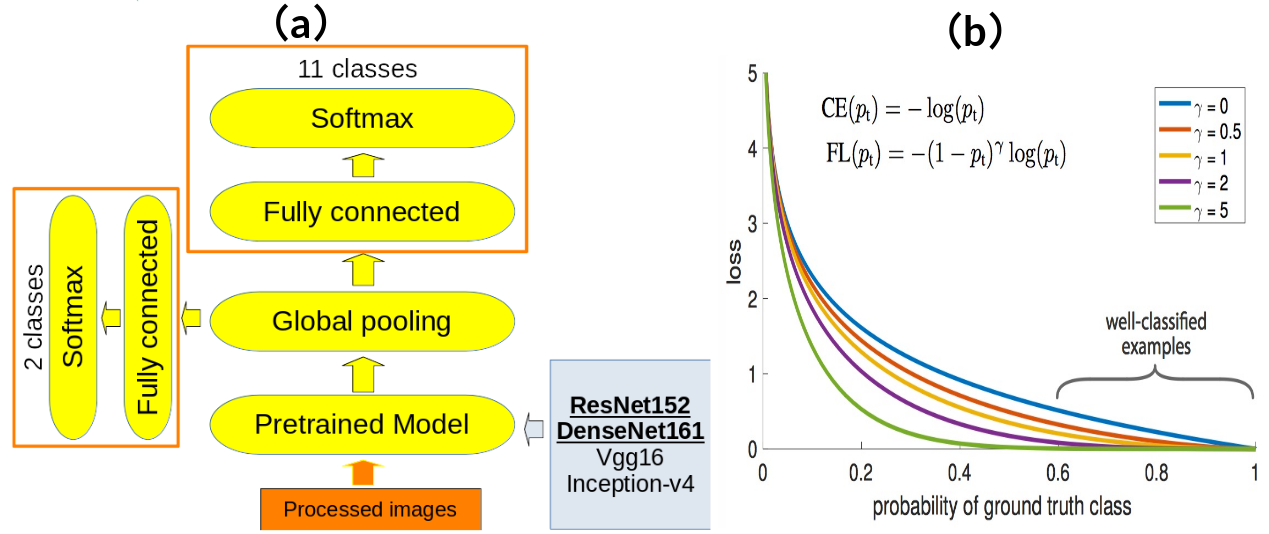
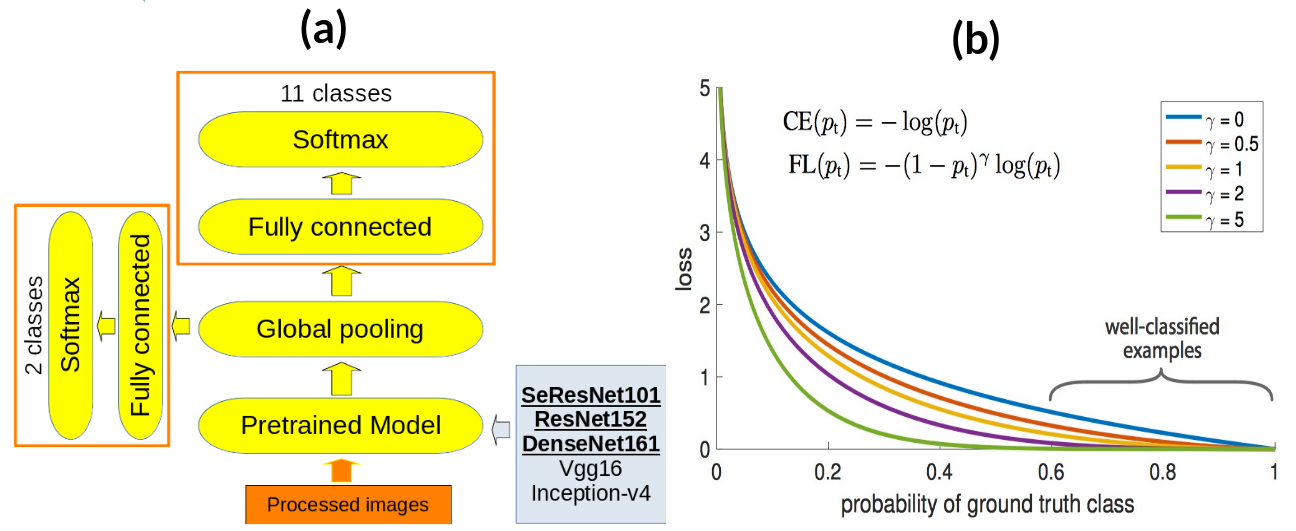
Add new version with SeResNet101 and multi-scale window

diff --git a/README.md b/README.md
@@ -15,27 +15,34 @@ We collect more than 2000 fabric images as our dataset. There are two major diff
 <center>Fig 2. the area distribution of fabric defects. About 82% of defects have area less than 1%, while the area of about 17% of defects is between 1% and 10%. And the rest 1% of defects have area greater than 10%.</center>
 
 ## Data process
+
+### Multi-scale window
+Since the original images have high resolution (2520 * 1960) and the shape of defects varies across different defects,in which the area of most defects is very small, we decided to use the multi-scale window sweeping across the images instead of the entire image as our training dataset, which also helps to increase the amount of dastaset. We select windows with three different kinds of windows (i.e. 640*640, 800*800, 960*960) in order to capture the different sizes of defects (Fig. 3). Each original image selects totally 24 (6*4) windows for every size of window, in which we only keep the windows containing defects with iou greater than 0.5 as our training dastaset.
+
+![multi_windows](https://github.com/XStargate/insight_project/blob/master/pics/multi_windows.png)
+<center>Fig 3. the multi-scale windows of imamges</center>
+
 ### Histogram equalization
 Histogram equalization is a computer image processing technique used to improve contrast in images, which is accomplished by effectively spreading out the most frequent intensity values, i.e. streatching out the intensity range of the image.  Histogram equalization is one of the best methods for image enhancement without loss of any information. Our most images have very skewed distribution on grayness and/or brightness, resulting in defects merged with normal background and hard to be identified. Therefore, the histogram equalization can significantly increase the contrast of most defect images (Fig. 3), which contributes a lot to improve the classification accuracy of our model.
 
 ![hist_equal](https://github.com/XStargate/insight_project/blob/master/pics/hist_equal.png)
-<center>Fig 3. (a) the original images of defects. (b) the images of defects processed by the histogram equalization algorithm.</center>
+<center>Fig 4. (a) the original images of defects. (b) the images of defects processed by the histogram equalization algorithm.</center>
 
 ### Data augmentation
-Since the number of defective fabric images are very limited compared to normal fabrics. We implement a few data augmentation methods that are common and standard in the computer vision field to increase the training dataset of defective fabrics, including flip, rotation, shift, crop, and slightly changing on grayness, brightness, etc. Besides the augmentation on training dataset, we also augment the testing dataset by individual horizontal flip, individual vertical flip, and both horizontal and vertical flip simutaneously. Hence, each test image will become four images (including the original one) to be predicted/classified by our model, and the final prediction will be the average value from the predicting results of all four images. The augmentation on test dataset can be regarded as a kind of model fusion, which turns out to increase the accuracy of our model on test dataset.
+Since the number of defective fabric images are very limited compared to normal fabrics. We implement a few data augmentation methods that are common and standard in the computer vision field to increase the training dataset of defective fabrics, including horizontal/vertical flip and rotation at specific angle. Besides the augmentation on training dataset, we also augment the testing dataset by individual horizontal flip, individual vertical flip, and both horizontal and vertical flip simutaneously. Hence, each test image will become four images (including the original one) to be predicted/classified by our model, and the final prediction will be the average value from the predicting results of all four images. The augmentation on test dataset can be regarded as a kind of model fusion, which turns out to increase the accuracy of our model on test dataset.
 
 ## Framework / network
 
-We implement the transfer learning based on the pretrained ResNet152 and/or DenseNet161 models, and some other pretrained models like vgg16 and Inception-v4 can be also tried in our network. The Fig. 4(a) shows the structure of our network, in which the processed images are input into the pretrained model and then extract feature of each channel by a global pooling layer. The key point in this network is to split the network into two branches, of which one is to do binary classification between normal and defective fabrics, and the other one is to classify 10 different kinds of fabrics from normal fabrics. The reason we have an additional branch of binary classification is to reduce the impact of dataset imbalance because the accumulative dataset from all defects has a comparable size with normal fabric dataset. Our experimental results indicate the binary classification is helpful to increase the accuracy of eventual classification on 11 classes.
+In our original approach, we implement the transfer learning based on the pretrained ResNet152 and/or DenseNet161 models, and some other pretrained models like vgg16 and Inception-v4 can be also tried in our network. Then we select SeResNet101 with attention mechanism added into it, which is more helpful to capture the defects especially some small defects. The Fig. 5(a) shows the structure of our network, in which the processed images are input into the pretrained model and then extract feature of each channel by a global pooling layer. The key point in this network is to split the network into two branches, of which one is to do binary classification between normal and defective fabrics, and the other one is to classify 10 different kinds of fabrics from normal fabrics. The reason we have an additional branch of binary classification is to reduce the impact of dataset imbalance because the accumulative dataset from all defects has a comparable size with normal fabric dataset. Our experimental results indicate the binary classification is helpful to increase the accuracy of eventual classification on 11 classes.
 
-We select the focal loss function as our loss function (Fig. 4(b)), which is defined in the following equation:
+We select the focal loss function as our loss function (Fig. 5(b)), which is defined in the following equation:
 
 ![focal_loss](https://github.com/XStargate/insight_project/blob/master/pics/focal_loss.png)
 
 where ![p_t](https://github.com/XStargate/insight_project/blob/master/pics/p_t.png) is the classification probability; ![alpha_t](https://github.com/XStargate/insight_project/blob/master/pics/alpha_t.png) is the weights on different classes; ![gamma](https://github.com/XStargate/insight_project/blob/master/pics/gamma.png) is focusing parameter (default is 2) and ![p_t_gamma](https://github.com/XStargate/insight_project/blob/master/pics/p_t_gamma.png) is called modulating factor, which is to decrease the weights on classes that are easily classified, while increase the weight on difficult classifications. There are two major advantages of focal loss function compared to the cross entropy loss function. The first advantage is that it can mitigate the influence of dataset imbalance by adding more weights on small dataset manually, and the other advantage is it can automatically increase the weights on classes that hard to be classified correctly on the fly.
 
 ![network_loss](https://github.com/XStargate/insight_project/blob/master/pics/network_loss.png)
-<center>Fig 4. (a) the network structure used in this project and the pretrained models we use are ResNet152 and DenseNet161. (b) the probability of ground truth of Focal loss function, which is the loss funtion used in this project (Tsung-Yi Lin et al. 2018).</center>
+<center>Fig 5. (a) the network structure used in this project and the pretrained models we use are SeResNet101, ResNet152 and DenseNet161. (b) the probability of ground truth of Focal loss function, which is the loss funtion used in this project (Tsung-Yi Lin et al. 2018).</center>
 
 Since our network is splitted to two branches on both 2 classes and 11 classes, the loss is defined in the following equation:
 
@@ -44,12 +51,12 @@ Since our network is splitted to two branches on both 2 classes and 11 classes, 
 where 70% of total loss is from the loss on 11 classifications and the rest 30% is from the loss on 2 classifications. We try a few different weights on those two types of classifications and turns out 70%/30% can achieve the best accuracy.
 
 ## Results and future works
-In this project, we build two models based on pretrained ResNet152 and DenseNet161 individually (Fig. 5), and both models can obtain the accuracy about 78% on the test data. Then we make a model fusion by combining both models, achieving more than 79% accuracy in the end. The accuracy is higher than common manual inspection accuracy between 50% and 65%, so we believe the model can help fabric manufacturing industry increase speed and accuracy on fabric defect detection. 
+In this project, we obtain the accuracy about 86% on the test data by using SeResNet101 and multi-scale windows (Fig. 6), while the accuracy using ResNet152, DenseNet161 and entire image is only about 79%. The accuracy is higher than common manual inspection accuracy between 50% and 65%, so we believe the model can help fabric manufacturing industry increase speed and accuracy on fabric defect detection. 
 
 ![accuracy](https://github.com/XStargate/insight_project/blob/master/pics/accuracy.png)
-<center>Fig 5. the accuracy of model based on ResNet152 for each epoch, where the blue lines are accuracy of training dataset and red lines are accuracy of testing dataset.</center>
+<center>Fig 6. the accuracy of model based on SeResNet101 for each epoch, where the blue lines are accuracy of training dataset and red lines are accuracy of testing dataset.</center>
 
-For this project, there are still a lot of other techniques worth exploring to increase the accuracy continuously in the future. For example, we can also try some other pretrained models, like vgg16, to do more model fusion. And we can also use some slided or cut windows to increase the size of dataset. Moreover, we can try to apply some object detection techniques on this project, like fast-RCNN, spatial pyramid pooling, Yolo network, etc.
+For this project, there are still a lot of other techniques worth exploring to increase the accuracy continuously in the future. For example, we can try to apply some object detection techniques on this project, like fast-RCNN, spatial pyramid pooling, Yolo network to increase the accuracy and speed of detection.
 
 ## Code readme
 Please see the readme under the ./src/ folder.
